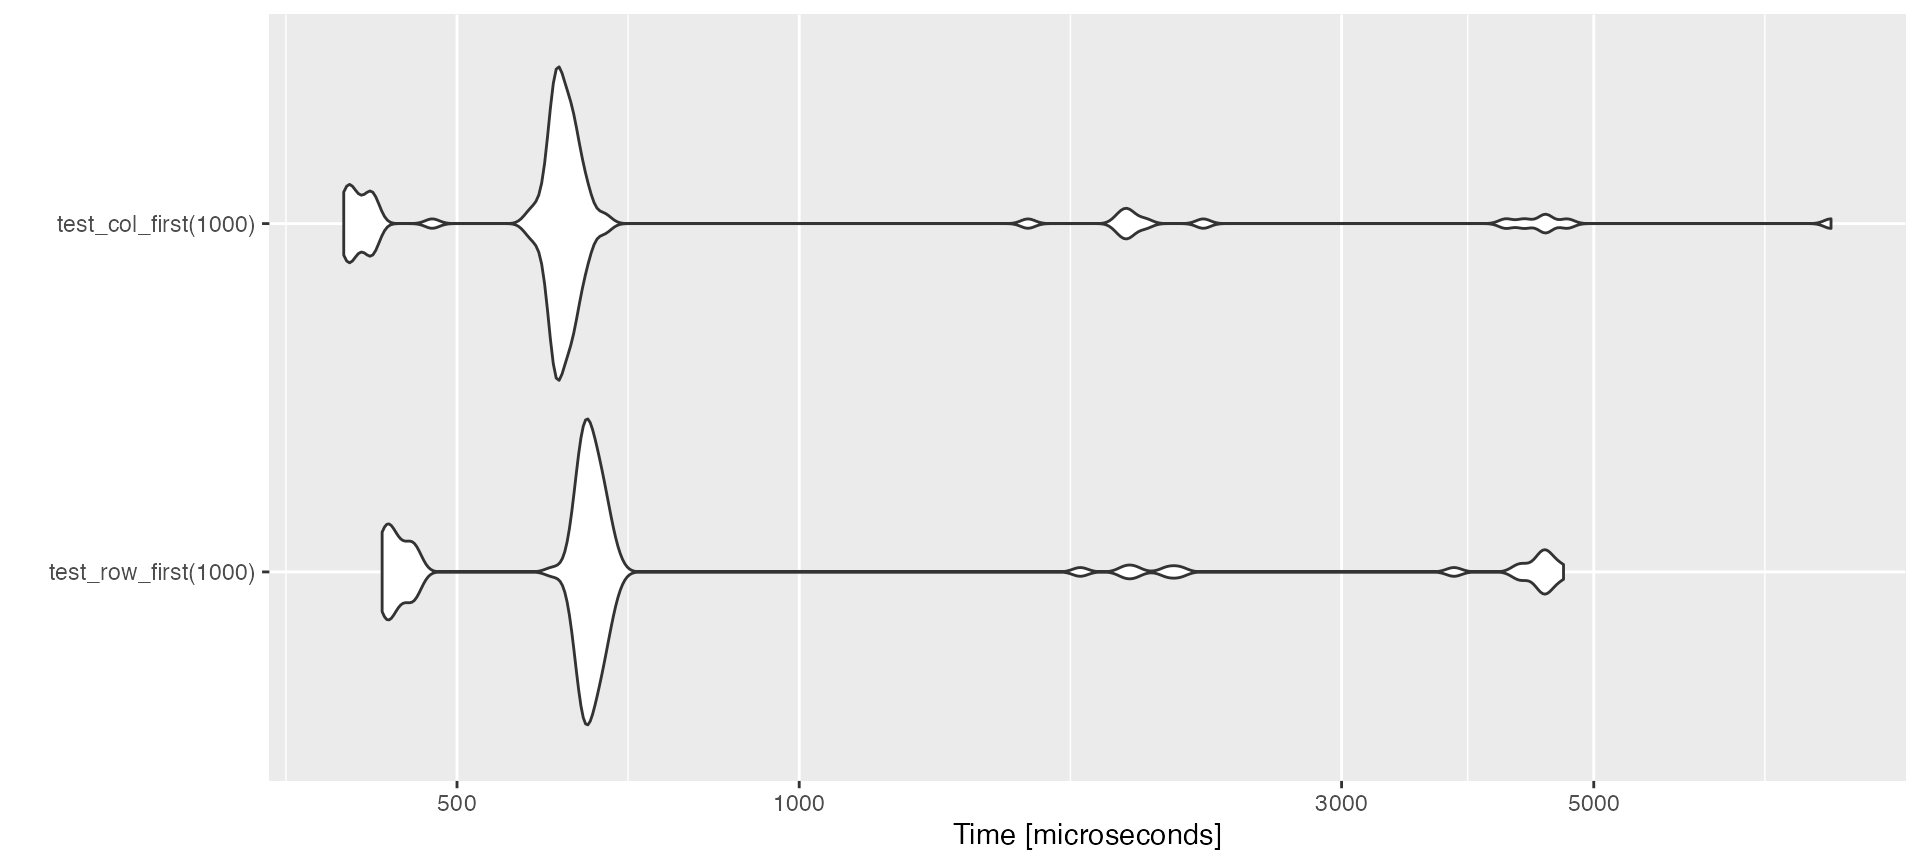
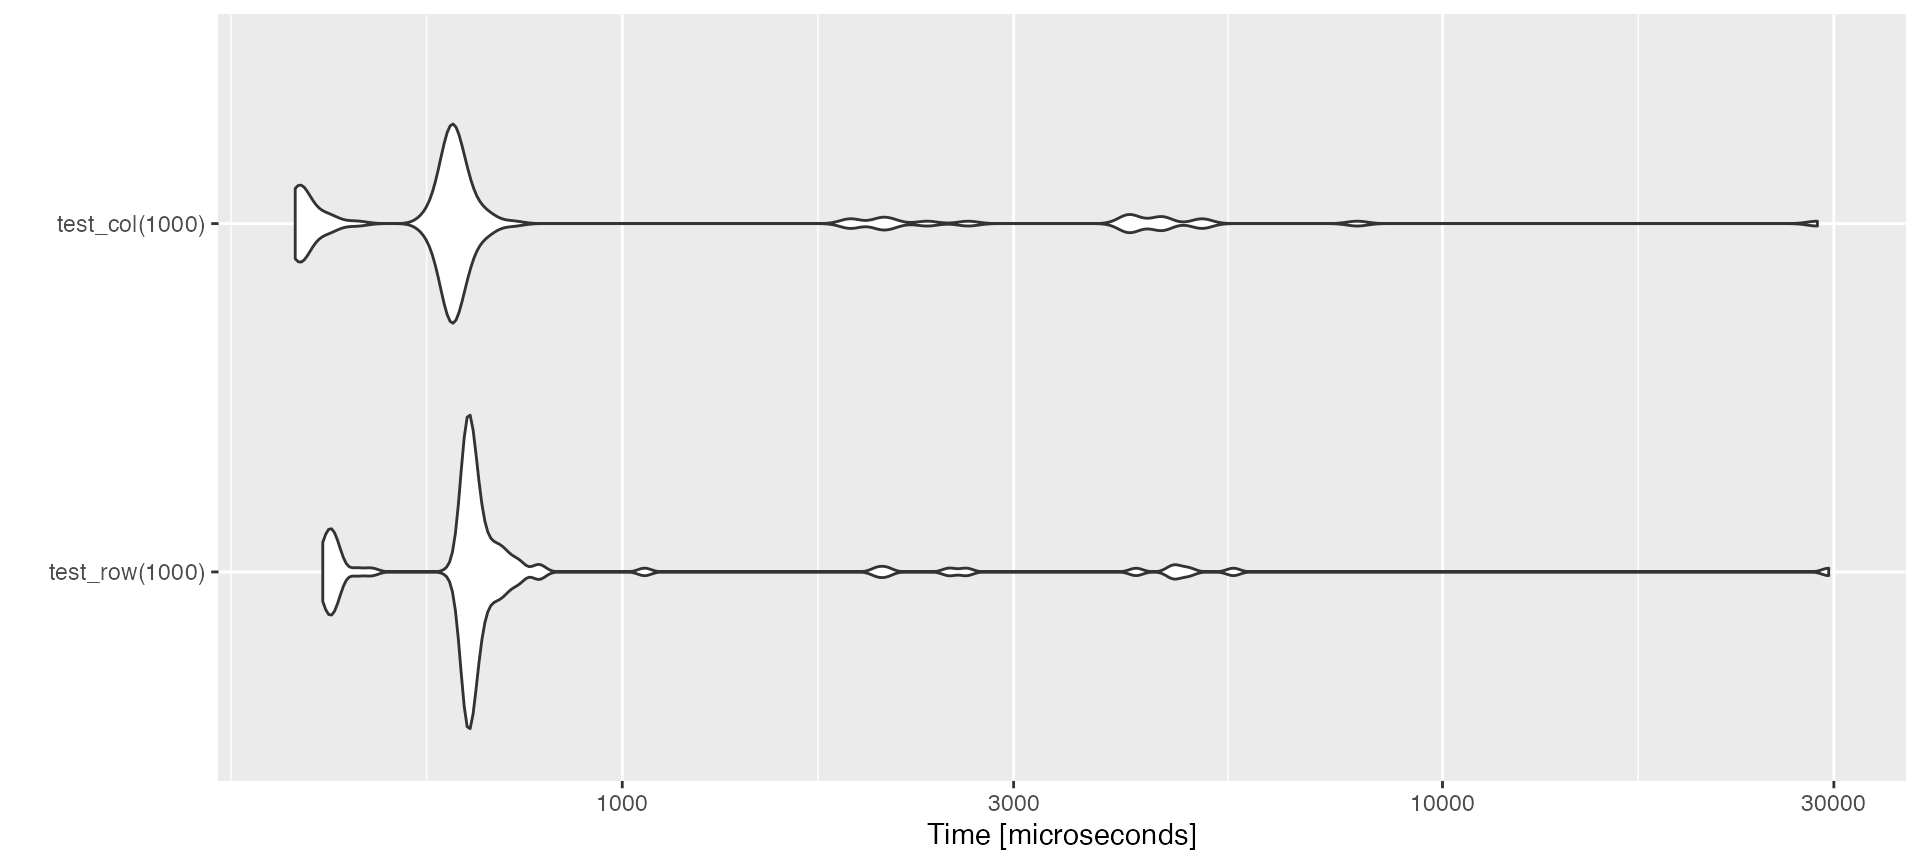
Built site for ppmcmc: 0.0.0.1@f7e5972

diff --git a/articles/Testing_speed.html b/articles/Testing_speed.html
@@ -83,7 +83,7 @@
 <span class="kw"><a href="https://rdrr.io/r/base/library.html" class="external-link">library</a></span><span class="op">(</span><span class="va"><a href="https://github.com/joshuaulrich/microbenchmark/" class="external-link">microbenchmark</a></span><span class="op">)</span>
 <span class="kw"><a href="https://rdrr.io/r/base/library.html" class="external-link">library</a></span><span class="op">(</span><span class="va"><a href="https://ggplot2.tidyverse.org" class="external-link">ggplot2</a></span><span class="op">)</span></code></pre></div>
 <p>Here we explore passing objects efficiently between R and c++ (using Rcpp). This will likely be obvious to a computer scientist but…let’s learn by doing.</p>
-<p>Firstly we have written two function in c++ that take a matrix and modify it by adding a constant. This is either done: 1. Row-wise, using <code>add_to_rowfirst()</code> or 2. Column-wise using <code>add_to_colfirst()</code>. Rcpp passes by reference by default and therefore these functions modify in place (unless a copy of the matrix passed to them is forced to be made).</p>
+<p>Firstly we have written two function in c++ that take a matrix and modify it by adding a constant. This is either done: 1. Across a row, using <code><a href="../reference/add_to_row.html">add_to_row()</a></code> or 2. Down a column using <code><a href="../reference/add_to_col.html">add_to_col()</a></code>. Rcpp passes by reference by default and therefore these functions modify in place (unless a copy of the matrix passed to them is forced to be made).</p>
 <p>To show what these functions do:</p>
 <div class="sourceCode" id="cb2"><pre class="downlit sourceCode r">
 <code class="sourceCode R"><span class="va">x</span> <span class="op">&lt;-</span> <span class="fu"><a href="https://rdrr.io/r/base/matrix.html" class="external-link">matrix</a></span><span class="op">(</span><span class="fl">0L</span>, nrow <span class="op">=</span> <span class="fl">5</span>, ncol <span class="op">=</span> <span class="fl">5</span><span class="op">)</span>
@@ -95,7 +95,7 @@
 <span class="co">#&gt; [4,]    0    0    0    0    0</span>
 <span class="co">#&gt; [5,]    0    0    0    0    0</span>
 
-<span class="fu"><a href="../reference/add_to_row_first.html">add_to_row_first</a></span><span class="op">(</span><span class="va">x</span>, <span class="fl">0</span>, <span class="fl">1</span><span class="op">)</span>
+<span class="fu"><a href="../reference/add_to_row.html">add_to_row</a></span><span class="op">(</span><span class="va">x</span>, <span class="fl">0</span>, <span class="fl">1</span><span class="op">)</span>
 <span class="va">x</span>
 <span class="co">#&gt;      [,1] [,2] [,3] [,4] [,5]</span>
 <span class="co">#&gt; [1,]    1    1    1    1    1</span>
@@ -104,7 +104,7 @@
 <span class="co">#&gt; [4,]    0    0    0    0    0</span>
 <span class="co">#&gt; [5,]    0    0    0    0    0</span>
 
-<span class="fu"><a href="../reference/add_to_col_first.html">add_to_col_first</a></span><span class="op">(</span><span class="va">x</span>, <span class="fl">0</span>, <span class="fl">1</span><span class="op">)</span>
+<span class="fu"><a href="../reference/add_to_col.html">add_to_col</a></span><span class="op">(</span><span class="va">x</span>, <span class="fl">0</span>, <span class="fl">1</span><span class="op">)</span>
 <span class="va">x</span>
 <span class="co">#&gt;      [,1] [,2] [,3] [,4] [,5]</span>
 <span class="co">#&gt; [1,]    2    1    1    1    1</span>
@@ -114,24 +114,24 @@
 <span class="co">#&gt; [5,]    1    0    0    0    0</span></code></pre></div>
 <p>We can test the efficiency impact of modifying row-wise or column-wise:</p>
 <div class="sourceCode" id="cb3"><pre class="downlit sourceCode r">
-<code class="sourceCode R"><span class="va">test_row_first</span> <span class="op">&lt;-</span> <span class="kw">function</span><span class="op">(</span><span class="va">n</span><span class="op">)</span><span class="op">{</span>
+<code class="sourceCode R"><span class="va">test_row</span> <span class="op">&lt;-</span> <span class="kw">function</span><span class="op">(</span><span class="va">n</span><span class="op">)</span><span class="op">{</span>
   <span class="va">x</span> <span class="op">&lt;-</span> <span class="fu"><a href="https://rdrr.io/r/base/matrix.html" class="external-link">matrix</a></span><span class="op">(</span><span class="fl">0L</span>, nrow <span class="op">=</span> <span class="va">n</span>, ncol <span class="op">=</span> <span class="va">n</span><span class="op">)</span>
-  <span class="fu"><a href="../reference/add_to_row_first.html">add_to_row_first</a></span><span class="op">(</span><span class="va">x</span>, <span class="fl">0</span>, <span class="fl">1</span><span class="op">)</span>
+  <span class="fu"><a href="../reference/add_to_row.html">add_to_row</a></span><span class="op">(</span><span class="va">x</span>, <span class="fl">0</span>, <span class="fl">1</span><span class="op">)</span>
 <span class="op">}</span>
-<span class="va">test_col_first</span> <span class="op">&lt;-</span> <span class="kw">function</span><span class="op">(</span><span class="va">n</span><span class="op">)</span><span class="op">{</span>
+<span class="va">test_col</span> <span class="op">&lt;-</span> <span class="kw">function</span><span class="op">(</span><span class="va">n</span><span class="op">)</span><span class="op">{</span>
   <span class="va">x</span> <span class="op">&lt;-</span> <span class="fu"><a href="https://rdrr.io/r/base/matrix.html" class="external-link">matrix</a></span><span class="op">(</span><span class="fl">0L</span>, nrow <span class="op">=</span> <span class="va">n</span>, ncol <span class="op">=</span> <span class="va">n</span><span class="op">)</span>
-  <span class="fu"><a href="../reference/add_to_col_first.html">add_to_col_first</a></span><span class="op">(</span><span class="va">x</span>, <span class="fl">0</span>, <span class="fl">1</span><span class="op">)</span>
+  <span class="fu"><a href="../reference/add_to_col.html">add_to_col</a></span><span class="op">(</span><span class="va">x</span>, <span class="fl">0</span>, <span class="fl">1</span><span class="op">)</span>
 <span class="op">}</span>
-<span class="va">row_v_col</span> <span class="op">&lt;-</span> <span class="fu"><a href="https://rdrr.io/pkg/microbenchmark/man/microbenchmark.html" class="external-link">microbenchmark</a></span><span class="op">(</span><span class="fu">test_row_first</span><span class="op">(</span><span class="fl">1000</span><span class="op">)</span>, <span class="fu">test_col_first</span><span class="op">(</span><span class="fl">1000</span><span class="op">)</span>, times <span class="op">=</span> <span class="fl">100</span><span class="op">)</span>
+<span class="va">row_v_col</span> <span class="op">&lt;-</span> <span class="fu"><a href="https://rdrr.io/pkg/microbenchmark/man/microbenchmark.html" class="external-link">microbenchmark</a></span><span class="op">(</span><span class="fu">test_row</span><span class="op">(</span><span class="fl">1000</span><span class="op">)</span>, <span class="fu">test_col</span><span class="op">(</span><span class="fl">1000</span><span class="op">)</span>, times <span class="op">=</span> <span class="fl">100</span><span class="op">)</span>
 <span class="fu">ggplot2</span><span class="fu">::</span><span class="fu"><a href="https://ggplot2.tidyverse.org/reference/autoplot.html" class="external-link">autoplot</a></span><span class="op">(</span><span class="va">row_v_col</span><span class="op">)</span></code></pre></div>
 <p><img src="Testing_speed_files/figure-html/unnamed-chunk-3-1.png" width="960"> We can see that, as the elements of the matrix are stored in the vector in memory in column-major order, operating column-wise is quicker.</p>
 <p>We can also show that is more inefficient if a copy is forced to be made if we pass a numeric matrix (not integer):</p>
 <div class="sourceCode" id="cb4"><pre class="downlit sourceCode r">
-<code class="sourceCode R"><span class="va">test_col_first_copy</span> <span class="op">&lt;-</span> <span class="kw">function</span><span class="op">(</span><span class="va">n</span><span class="op">)</span><span class="op">{</span>
+<code class="sourceCode R"><span class="va">test_col_copy</span> <span class="op">&lt;-</span> <span class="kw">function</span><span class="op">(</span><span class="va">n</span><span class="op">)</span><span class="op">{</span>
   <span class="va">x</span> <span class="op">&lt;-</span> <span class="fu"><a href="https://rdrr.io/r/base/matrix.html" class="external-link">matrix</a></span><span class="op">(</span><span class="fl">0</span>, nrow <span class="op">=</span> <span class="va">n</span>, ncol <span class="op">=</span> <span class="va">n</span><span class="op">)</span>
-  <span class="fu"><a href="../reference/add_to_col_first.html">add_to_col_first</a></span><span class="op">(</span><span class="va">x</span>, <span class="fl">0</span>, <span class="fl">1</span><span class="op">)</span>
+  <span class="fu"><a href="../reference/add_to_col.html">add_to_col</a></span><span class="op">(</span><span class="va">x</span>, <span class="fl">0</span>, <span class="fl">1</span><span class="op">)</span>
 <span class="op">}</span>
-<span class="va">col_v_copy</span> <span class="op">&lt;-</span> <span class="fu"><a href="https://rdrr.io/pkg/microbenchmark/man/microbenchmark.html" class="external-link">microbenchmark</a></span><span class="op">(</span><span class="fu">test_col_first</span><span class="op">(</span><span class="fl">1000</span><span class="op">)</span>, <span class="fu">test_col_first_copy</span><span class="op">(</span><span class="fl">1000</span><span class="op">)</span>, times <span class="op">=</span> <span class="fl">100</span><span class="op">)</span>
+<span class="va">col_v_copy</span> <span class="op">&lt;-</span> <span class="fu"><a href="https://rdrr.io/pkg/microbenchmark/man/microbenchmark.html" class="external-link">microbenchmark</a></span><span class="op">(</span><span class="fu">test_col</span><span class="op">(</span><span class="fl">1000</span><span class="op">)</span>, <span class="fu">test_col_copy</span><span class="op">(</span><span class="fl">1000</span><span class="op">)</span>, times <span class="op">=</span> <span class="fl">100</span><span class="op">)</span>
 <span class="fu">ggplot2</span><span class="fu">::</span><span class="fu"><a href="https://ggplot2.tidyverse.org/reference/autoplot.html" class="external-link">autoplot</a></span><span class="op">(</span><span class="va">col_v_copy</span><span class="op">)</span></code></pre></div>
 <p><img src="Testing_speed_files/figure-html/unnamed-chunk-4-1.png" width="960"></p>
 <p>Lets show how quickly we can do many steps between R and c++, modifying a large matrix at each step.</p>
@@ -139,7 +139,7 @@
 <code class="sourceCode R"><span class="va">pass_back_and_forth</span> <span class="op">&lt;-</span> <span class="kw">function</span><span class="op">(</span><span class="va">x</span><span class="op">)</span><span class="op">{</span>
   <span class="va">out</span> <span class="op">&lt;-</span> <span class="fu"><a href="https://rdrr.io/r/base/rep.html" class="external-link">rep</a></span><span class="op">(</span><span class="fl">0</span>, <span class="fl">1000</span><span class="op">)</span>
   <span class="kw">for</span><span class="op">(</span><span class="va">i</span> <span class="kw">in</span> <span class="fl">1</span><span class="op">:</span><span class="fl">1000</span><span class="op">)</span><span class="op">{</span>
-    <span class="fu"><a href="../reference/add_to_col_first.html">add_to_col_first</a></span><span class="op">(</span><span class="va">x</span>, <span class="fl">0</span>, <span class="va">i</span><span class="op">)</span>
+    <span class="fu"><a href="../reference/add_to_col.html">add_to_col</a></span><span class="op">(</span><span class="va">x</span>, <span class="fl">0</span>, <span class="va">i</span><span class="op">)</span>
     <span class="va">out</span><span class="op">[</span><span class="va">i</span><span class="op">]</span> <span class="op">&lt;-</span> <span class="va">x</span><span class="op">[</span><span class="fl">1</span>,<span class="fl">1</span><span class="op">]</span>
   <span class="op">}</span>
   <span class="kw"><a href="https://rdrr.io/r/base/function.html" class="external-link">return</a></span><span class="op">(</span><span class="va">out</span><span class="op">)</span>

diff --git a/index.html b/index.html
@@ -72,40 +72,7 @@
 <a href="#ppmcmc" class="anchor" aria-hidden="true"></a>ppmcmc</h1></div>
 <!-- badges: start -->
 
-<p>The goal of ppmcmc is to …</p>
-<div id="installation" class="section level2">
-<h2 class="hasAnchor">
-<a href="#installation" class="anchor" aria-hidden="true"></a>Installation</h2>
-<p>You can install the released version of ppmcmc from <a href="https://CRAN.R-project.org" class="external-link">CRAN</a> with:</p>
-<div class="sourceCode" id="cb1"><pre class="downlit sourceCode r">
-<code class="sourceCode R"><span class="fu"><a href="https://rdrr.io/r/utils/install.packages.html" class="external-link">install.packages</a></span><span class="op">(</span><span class="st">"ppmcmc"</span><span class="op">)</span></code></pre></div>
-<p>And the development version from <a href="https://github.com/" class="external-link">GitHub</a> with:</p>
-<div class="sourceCode" id="cb2"><pre class="downlit sourceCode r">
-<code class="sourceCode R"><span class="co"># install.packages("devtools")</span>
-<span class="fu">devtools</span><span class="fu">::</span><span class="fu">install_github</span><span class="op">(</span><span class="st">"mrc-ide/ppmcmc"</span><span class="op">)</span></code></pre></div>
-</div>
-<div id="example" class="section level2">
-<h2 class="hasAnchor">
-<a href="#example" class="anchor" aria-hidden="true"></a>Example</h2>
-<p>This is a basic example which shows you how to solve a common problem:</p>
-<div class="sourceCode" id="cb3"><pre class="downlit sourceCode r">
-<code class="sourceCode R"><span class="kw"><a href="https://rdrr.io/r/base/library.html" class="external-link">library</a></span><span class="op">(</span><span class="va">ppmcmc</span><span class="op">)</span>
-<span class="co">## basic example code</span></code></pre></div>
-<p>What is special about using <code>README.Rmd</code> instead of just <code>README.md</code>? You can include R chunks like so:</p>
-<div class="sourceCode" id="cb4"><pre class="downlit sourceCode r">
-<code class="sourceCode R"><span class="fu"><a href="https://rdrr.io/r/base/summary.html" class="external-link">summary</a></span><span class="op">(</span><span class="va">cars</span><span class="op">)</span>
-<span class="co">#&gt;      speed           dist       </span>
-<span class="co">#&gt;  Min.   : 4.0   Min.   :  2.00  </span>
-<span class="co">#&gt;  1st Qu.:12.0   1st Qu.: 26.00  </span>
-<span class="co">#&gt;  Median :15.0   Median : 36.00  </span>
-<span class="co">#&gt;  Mean   :15.4   Mean   : 42.98  </span>
-<span class="co">#&gt;  3rd Qu.:19.0   3rd Qu.: 56.00  </span>
-<span class="co">#&gt;  Max.   :25.0   Max.   :120.00</span></code></pre></div>
-<p>You’ll still need to render <code>README.Rmd</code> regularly, to keep <code>README.md</code> up-to-date. <code>devtools::build_readme()</code> is handy for this. You could also use GitHub Actions to re-render <code>README.Rmd</code> every time you push. An example workflow can be found here: <a href="https://github.com/r-lib/actions/tree/master/examples" class="external-link uri">https://github.com/r-lib/actions/tree/master/examples</a>.</p>
-<p>You can also embed plots, for example:</p>
-<p><img src="reference/figures/README-pressure-1.png" width="100%"></p>
-<p>In that case, don’t forget to commit and push the resulting figure files, so they display on GitHub and CRAN.</p>
-</div>
+<p>Efficient implementation of the human module of the Imperial malaria ODE model, for use in pMCMC fitting.</p>
 </div>
   </div>
 

diff --git a/reference/add_to_col.html b/reference/add_to_col.html
@@ -6,7 +6,7 @@
 <meta http-equiv="X-UA-Compatible" content="IE=edge">
 <meta name="viewport" content="width=device-width, initial-scale=1.0">
 
-<title>Pass matrix by reference and edit the first row. — add_to_row_first • ppmcmc</title>
+<title>Pass matrix by reference and edit the first column. — add_to_col • ppmcmc</title>
 
 
 <!-- jquery -->
@@ -39,8 +39,8 @@
 
 
 
-<meta property="og:title" content="Pass matrix by reference and edit the first row. — add_to_row_first" />
-<meta property="og:description" content="Pass matrix by reference and edit the first row." />
+<meta property="og:title" content="Pass matrix by reference and edit the first column. — add_to_col" />
+<meta property="og:description" content="Pass matrix by reference and edit the first column." />
 
 
 
@@ -117,16 +117,16 @@
 <div class="row">
   <div class="col-md-9 contents">
     <div class="page-header">
-    <h1>Pass matrix by reference and edit the first row.</h1>
+    <h1>Pass matrix by reference and edit the first column.</h1>
     
-    <div class="hidden name"><code>add_to_row_first.Rd</code></div>
+    <div class="hidden name"><code>add_to_col.Rd</code></div>
     </div>
 
     <div class="ref-description">
-    <p>Pass matrix by reference and edit the first row.</p>
+    <p>Pass matrix by reference and edit the first column.</p>
     </div>
 
-    <div class="ref-usage sourceCode"><pre class='sourceCode r'><code><span class='fu'>add_to_row_first</span><span class='op'>(</span><span class='va'>x</span>, <span class='va'>row</span>, <span class='va'>y</span><span class='op'>)</span></code></pre></div>
+    <div class="ref-usage sourceCode"><pre class='sourceCode r'><code><span class='fu'>add_to_col</span><span class='op'>(</span><span class='va'>x</span>, <span class='va'>col</span>, <span class='va'>y</span><span class='op'>)</span></code></pre></div>
 
     <h2 class="hasAnchor" id="arguments"><a class="anchor" href="#arguments"></a>Arguments</h2>
     <table class="ref-arguments">
@@ -136,8 +136,8 @@
       <td><p>Integer matrix</p></td>
     </tr>
     <tr>
-      <th>row</th>
-      <td><p>Index of row to modify</p></td>
+      <th>col</th>
+      <td><p>Index of col to modify</p></td>
     </tr>
     <tr>
       <th>y</th>

diff --git a/reference/add_to_row.html b/reference/add_to_row.html
@@ -6,7 +6,7 @@
 <meta http-equiv="X-UA-Compatible" content="IE=edge">
 <meta name="viewport" content="width=device-width, initial-scale=1.0">
 
-<title>Pass matrix by reference and edit the first column. — add_to_col_first • ppmcmc</title>
+<title>Pass matrix by reference and edit the first row. — add_to_row • ppmcmc</title>
 
 
 <!-- jquery -->
@@ -39,8 +39,8 @@
 
 
 
-<meta property="og:title" content="Pass matrix by reference and edit the first column. — add_to_col_first" />
-<meta property="og:description" content="Pass matrix by reference and edit the first column." />
+<meta property="og:title" content="Pass matrix by reference and edit the first row. — add_to_row" />
+<meta property="og:description" content="Pass matrix by reference and edit the first row." />
 
 
 
@@ -117,16 +117,16 @@
 <div class="row">
   <div class="col-md-9 contents">
     <div class="page-header">
-    <h1>Pass matrix by reference and edit the first column.</h1>
+    <h1>Pass matrix by reference and edit the first row.</h1>
     
-    <div class="hidden name"><code>add_to_col_first.Rd</code></div>
+    <div class="hidden name"><code>add_to_row.Rd</code></div>
     </div>
 
     <div class="ref-description">
-    <p>Pass matrix by reference and edit the first column.</p>
+    <p>Pass matrix by reference and edit the first row.</p>
     </div>
 
-    <div class="ref-usage sourceCode"><pre class='sourceCode r'><code><span class='fu'>add_to_col_first</span><span class='op'>(</span><span class='va'>x</span>, <span class='va'>col</span>, <span class='va'>y</span><span class='op'>)</span></code></pre></div>
+    <div class="ref-usage sourceCode"><pre class='sourceCode r'><code><span class='fu'>add_to_row</span><span class='op'>(</span><span class='va'>x</span>, <span class='va'>row</span>, <span class='va'>y</span><span class='op'>)</span></code></pre></div>
 
     <h2 class="hasAnchor" id="arguments"><a class="anchor" href="#arguments"></a>Arguments</h2>
     <table class="ref-arguments">
@@ -136,8 +136,8 @@
       <td><p>Integer matrix</p></td>
     </tr>
     <tr>
-      <th>col</th>
-      <td><p>Index of col to modify</p></td>
+      <th>row</th>
+      <td><p>Index of row to modify</p></td>
     </tr>
     <tr>
       <th>y</th>

diff --git a/reference/index.html b/reference/index.html
@@ -142,13 +142,13 @@
       <tr>
         
         <td>
-          <p><code><a href="add_to_col_first.html">add_to_col_first()</a></code> </p>
+          <p><code><a href="add_to_col.html">add_to_col()</a></code> </p>
         </td>
         <td><p>Pass matrix by reference and edit the first column.</p></td>
       </tr><tr>
         
         <td>
-          <p><code><a href="add_to_row_first.html">add_to_row_first()</a></code> </p>
+          <p><code><a href="add_to_row.html">add_to_row()</a></code> </p>
         </td>
         <td><p>Pass matrix by reference and edit the first row.</p></td>
       </tr>
